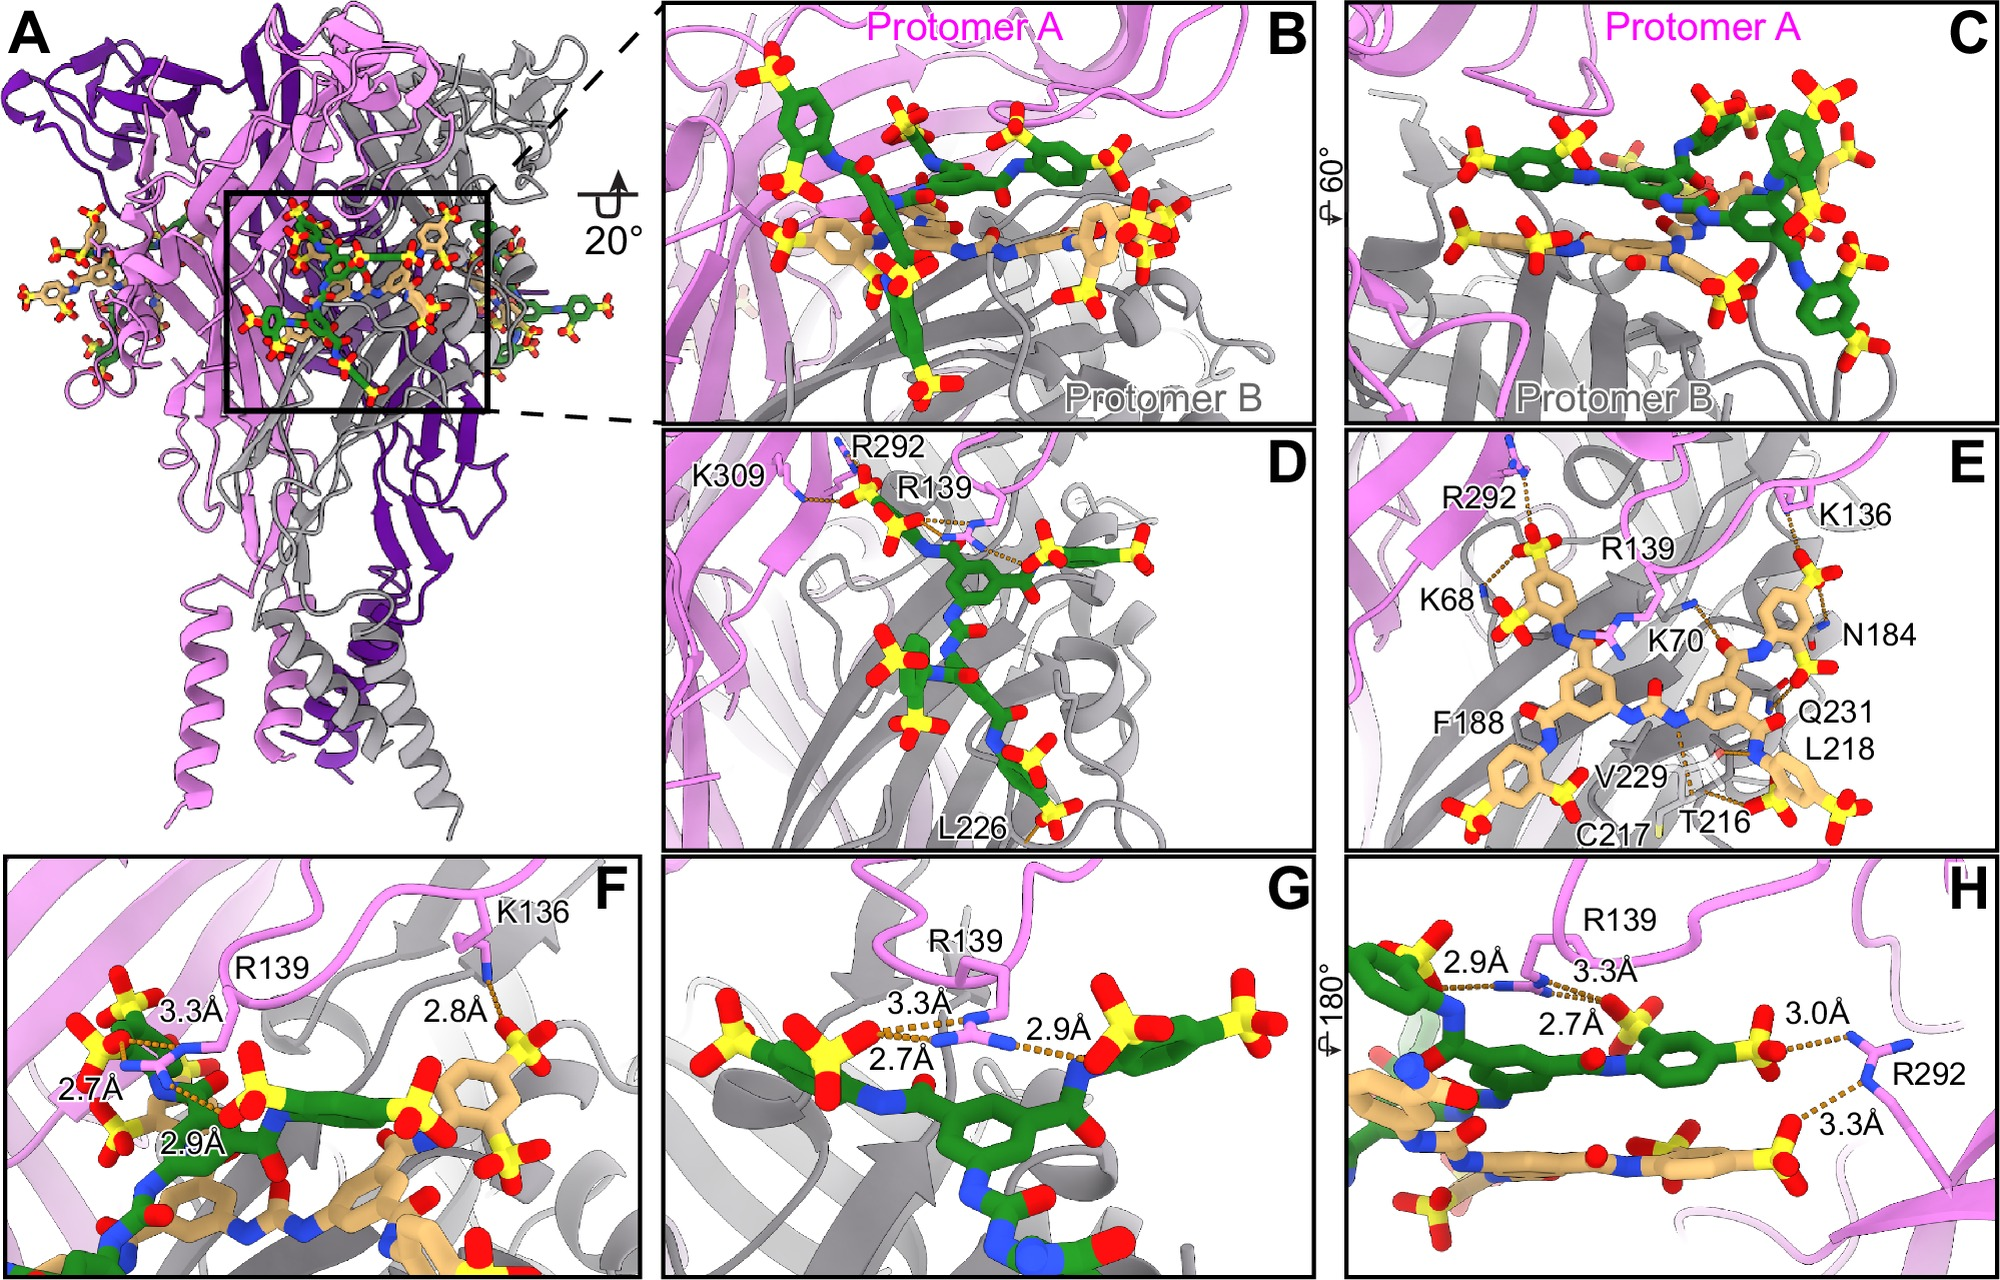
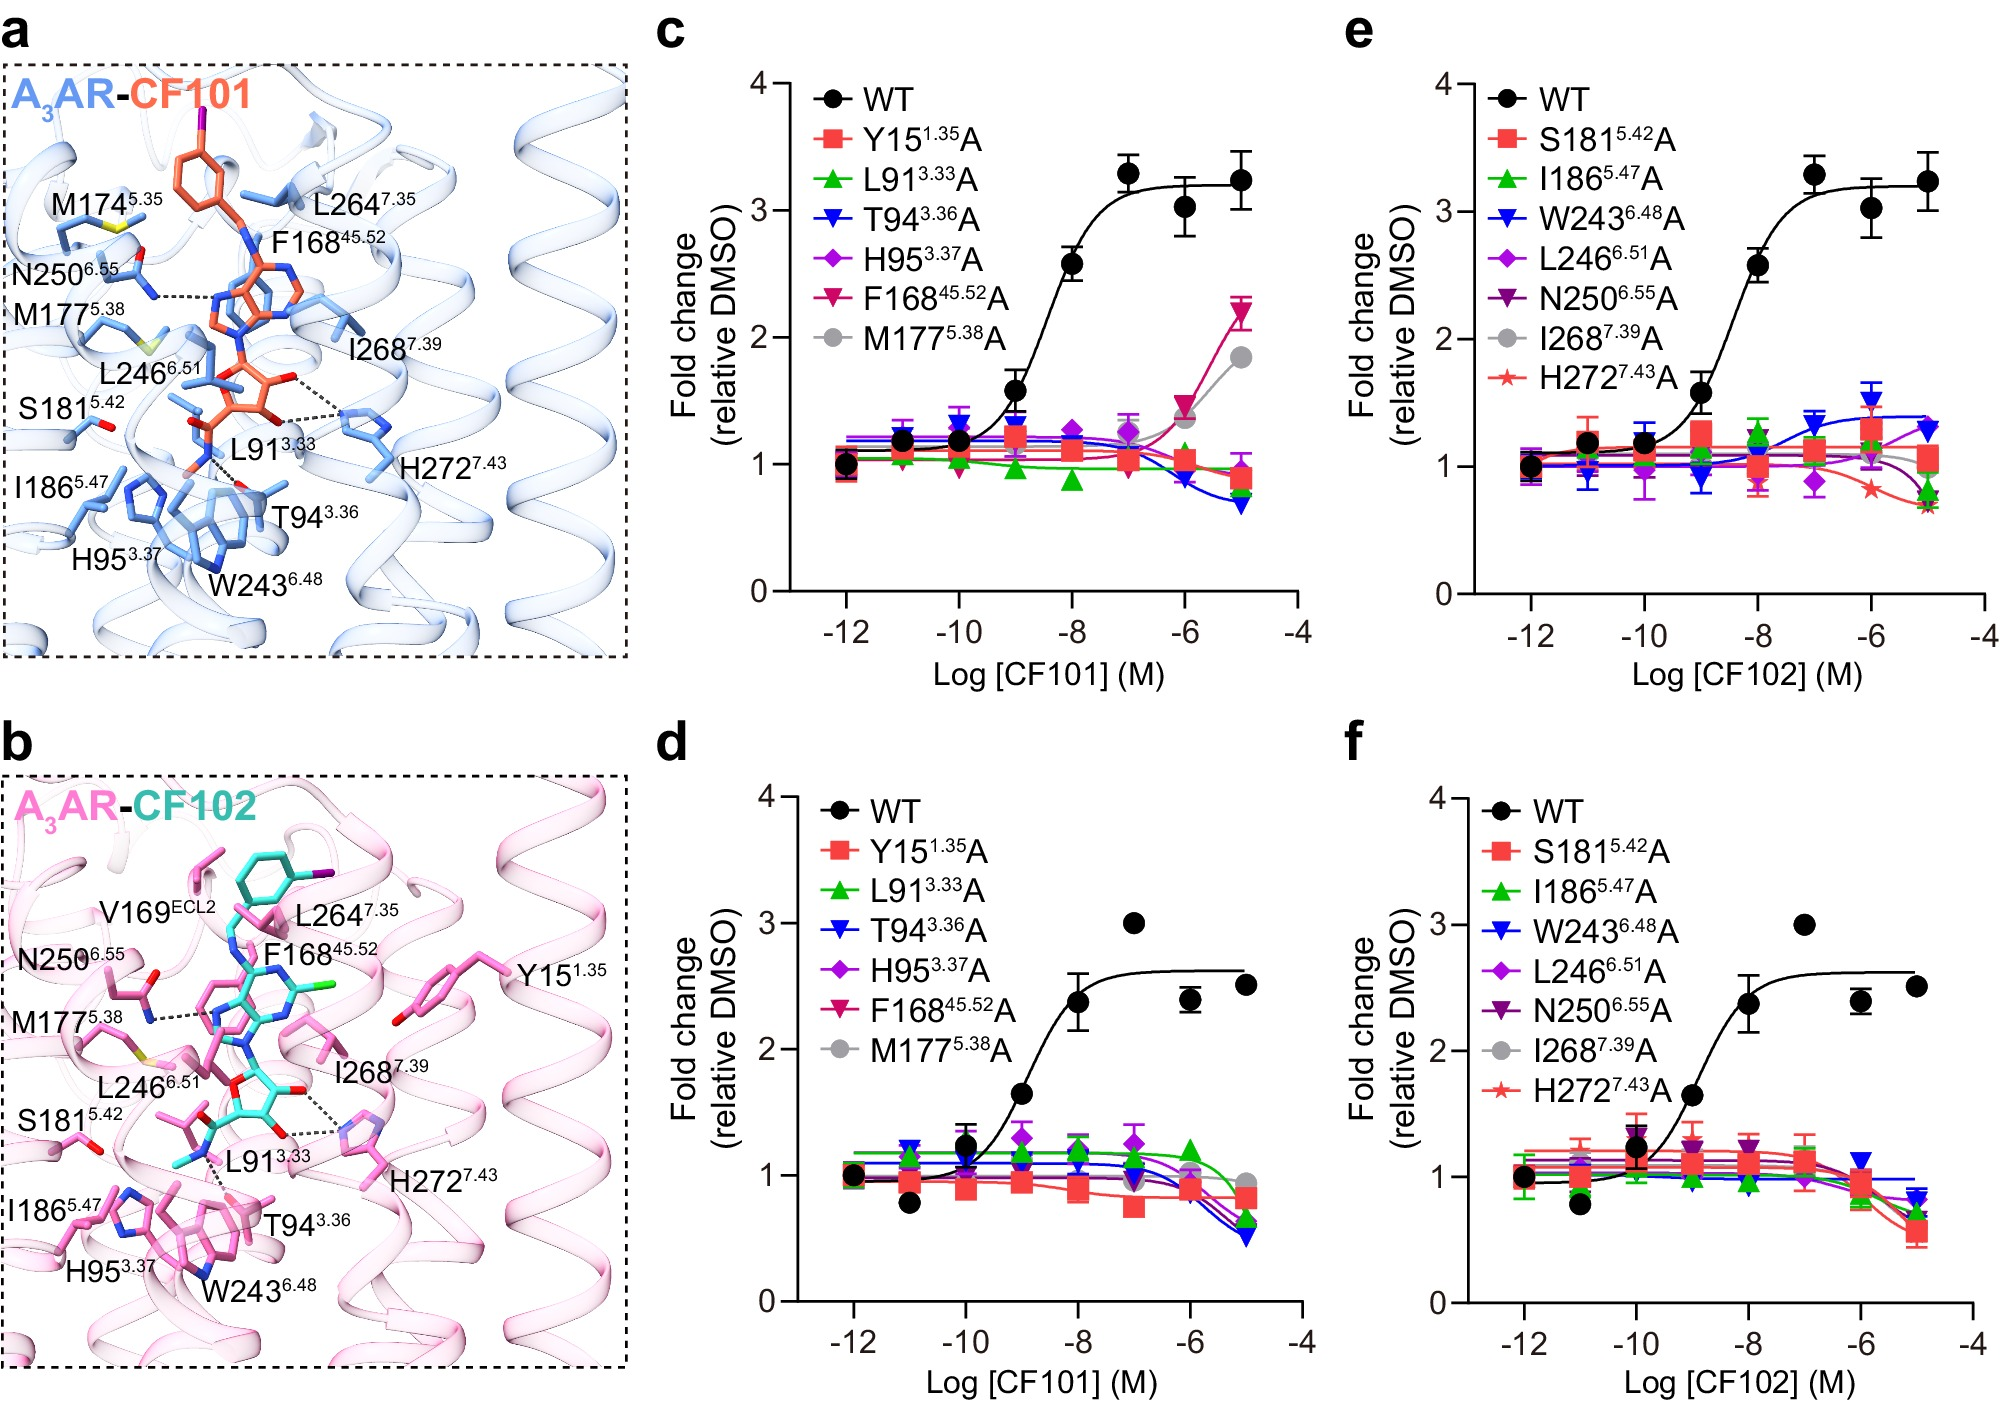
Pivot protein-ligand to A3AR Fig2 pi-stack GTFA F168,3

diff --git a/lumiere_protein_ligand_task/TASK.md b/lumiere_protein_ligand_task/TASK.md
@@ -1,9 +1,9 @@
-# Project Lumière — Protein-ligand (P2X1–NF449 Figure 5)
+# Project Lumière — Protein-ligand (A3AR–CF101 Figure 2)
 
-**Assay:** Protein-ligand · **Subdomain:** Biochemistry / Structural biology  
-**Image:** Oken et al., *Nat Commun* (2024), Figure 5 (CC BY 4.0)
+**Assay:** Protein-ligand · **Subdomain:** Biochemistry / GPCR structural biology  
+**Image:** *Nat Commun* (2024) https://doi.org/10.1038/s41467-024-47207-6 Figure 2 (CC BY 4.0)
 
-**Pivot:** Panel F `K136,8.9` was solved by Grok-4.6. New endpoint uses panel H: residue contacting both NF449 colors + sum of those two labeled distances.
+**Pivot:** P2X1 labeled-distance endpoints kept PASSing. New endpoint: adenine π-stack residue + TM6 Ballesteros-Weinstein count on panel a.
 
 ---
 
@@ -11,10 +11,10 @@
 
 | Field | Value |
 |-------|-------|
-| Image | `protein_ligand_image.jpg` (Fig 5) |
-| DOI | https://doi.org/10.1038/s41467-024-52636-4 |
+| Image | `protein_ligand_image.jpg` |
+| DOI | https://doi.org/10.1038/s41467-024-47207-6 |
 | License | CC BY 4.0 |
-| Panel | H |
+| Panel | a |
 
 ---
 
@@ -26,68 +26,66 @@ See `PROMPT.txt`.
 
 ## 3. GTFA
 
-**`R292,6.3`**
+**`F168,3`**
 
-(Panel H: R292 contacts green NF449 at \(3.0\,\text{\AA}\) and tan NF449 at \(3.3\,\text{\AA}\); sum \(6.3\))
+(π-stack = F168; TM6 labels W243, L246, N250)
 
 ---
 
 ## 4. Answer format
 
-Text (case sensitive) — `Res,sum`
+Text (case sensitive) — `Res,count`
 
 ---
 
 ## 5. Golden solution
 
-Step 1: Restrict to panel H (\(180^{\circ}\) rotated companion of panel G).
+Step 1: Restrict to panel a (CF101 / orange ligand).
 
-Step 2 (vision + domain): Find the residue with dashed contacts to both ligand carbon colors (green and tan). That residue is **R292** (bridges inner and outer NF449).
+Step 2 (domain + vision): Adenosine-receptor nucleoside agonists place the adenine ring in a π-stack on ECL2 position 45.52. In panel a that residue is **F168**.
 
-Step 3: Read the two labeled distances from R292: \(3.0\) (green) and \(3.3\) (tan).
+Step 3 (vision): Count labeled contacting residues whose Ballesteros-Weinstein index is on TM6 (integer part 6): **W243**, **L246**, **N250** → **3**.
 
-Step 4: Sum \(3.0+3.3=6.3\).
+Step 4: Format `F168,3`.
 
-Final Answer: R292,6.3
+Final Answer: F168,3
 
 ---
 
 ## 6. Image description
 
-See `IMAGE_DESCRIPTION.txt` (must not assign the dual-contact residue or the \(3.0\)/\(3.3\) pairing).
+See `IMAGE_DESCRIPTION.txt`.
 
 ---
 
 ## 7. Distractors (5)
 
-1. `R139,8.9` — R139 contacts only one NF449 color (three distances on green)  
-2. `R292,6.0` — misread distances  
-3. `K309,6.3` — wrong residue  
-4. `R292,5.9` — arithmetic error  
-5. `R292,3.3` — reported a single distance instead of the sum
+1. `F168,4` — overcount TM6  
+2. `W243,3` — Trp6.48 mistaken for adenine π-stack  
+3. `F168,2` — undercount TM6  
+4. `H272,3` — TM7 His mistaken for π-stack  
+5. `F168,45` — used BW number as the count  
 
 ---
 
 ## 8. Model failure justification (template)
 
-Error type: **Label–element mis-binding**
+Error type: **Label–element or axis mis-binding**
 
-The model selected the wrong residue as the dual-ligand contact and/or summed the wrong angstrom labels in panel H, so the token diverges from `R292,6.3`.
+Wrong π-stack residue and/or wrong TM6 label count on panel a versus `F168,3`.
 
 ---
 
 ## 9. Model tests
 
-Retest pending on `R292,6.3`.
-
-Retired PASS: mitapivat; Fig6 arithmetic; Fig5 `2,6`; panel F `K136,8.9` (Grok-4.6).
+Retest pending on `F168,3`.
 
 ---
 
 ## 10. References
 
 ```
-Oken et al. Cryo-EM structures of the human P2X1 receptor reveal subtype-specific architecture and antagonism by supramolecular ligand-binding. Nature Communications (2024). https://doi.org/10.1038/s41467-024-52636-4 (CC BY 4.0)
+Cryo-EM structures of adenosine receptor A3AR bound to selective agonists. Nature Communications (2024). https://doi.org/10.1038/s41467-024-47207-6 (CC BY 4.0)
 
-Figure 5: https://doi.org/10.1038/s41467-024-52636-4
+Figure 2: https://doi.org/10.1038/s41467-024-47207-6
 ```

diff --git a/lumiere_protein_ligand_task/PROVENANCE.md b/lumiere_protein_ligand_task/PROVENANCE.md
@@ -3,10 +3,8 @@
 | Field | Value |
 |-------|-------|
 | Assay | Protein-ligand |
-| Figure | Figure 5 |
-| File | `protein_ligand_image.jpg` ← `raw/p2x1_fig5.png` |
-| Paper | Oken et al., *Nature Communications* (2024) |
-| DOI | https://doi.org/10.1038/s41467-024-52636-4 |
+| Figure | Figure 2 |
+| File | `protein_ligand_image.jpg` ← `raw/a3ar_fig2.png` |
+| DOI | https://doi.org/10.1038/s41467-024-47207-6 |
 | License | CC BY 4.0 |
-| GTFA | `K136,8.9` from panel F labels |
-
+| GTFA | `F168,3` |
